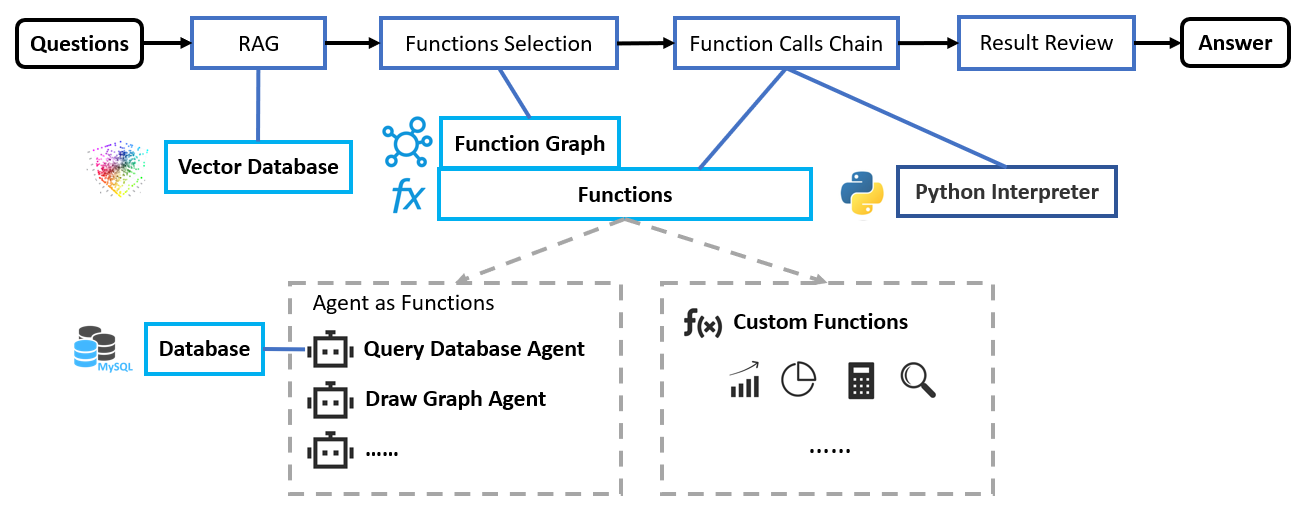
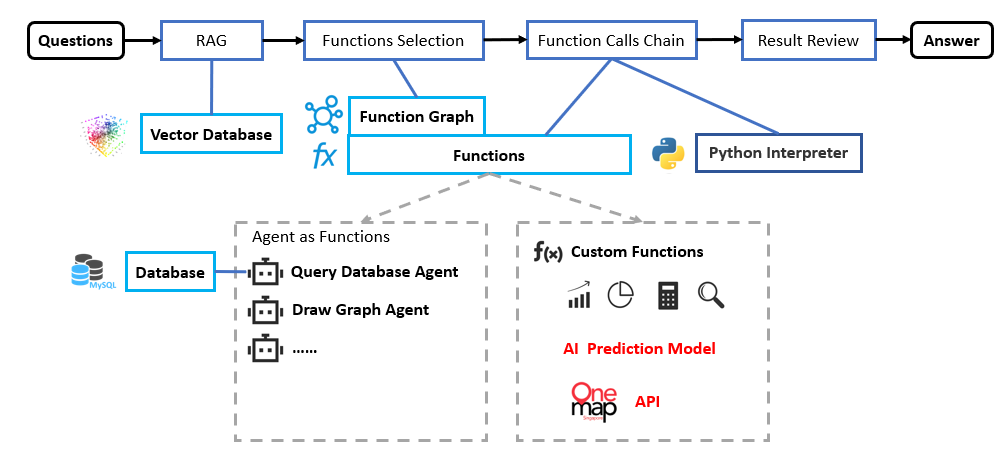
docs

Changed region(s): [[0.0, 0.031, 1.0, 0.9912], [0.741, 0.7743, 0.7719, 0.8982], [0.5558, 0.1858, 0.5867, 0.2168]]

diff --git a/README.md b/README.md
@@ -30,6 +30,22 @@
 - 2, 整合新加坡 OneMAP 的地图和数据 API。
 - 3, 支持基于机器学习的新加坡房价预测模型。
 
+## 需求分析
+
+### 问题/痛点  
+- **通用大语言模型缺乏领域特定数据**——无法支持垂直行业（房地产、教育、城市规划）的数据驱动决策。  
+- **数据碎片化且杂乱无章**——专业人士需手动整理信息，浪费大量时间。  
+- **幻觉与不可靠的输出**——现有智能体无法提供准确、结构化的分析。  
+- **缺乏统一平台**——企业和政府依赖昂贵的一次性解决方案。  
+- **示例**：现有大语言模型无法提供准确的近期二手房价格或交易量数据。  
+
+![](./readme_static/pro.png)
+
+### 目标受众与市场规模  
+- **购房者与公众**——获取结构化房产/教育洞察，用于长期家庭规划（如购房、择校）、日常生活与交通、实时决策。  
+- **房地产与教育行业专业人士**——基于AI的分析工具，为客户定制策略。  
+- **政府与城市规划者**——数据驱动的政策制定：城市规划、设施选址与调度、交通优化。
+
 ## 创新点
 - 基于代码生成的智能体(Agent)支持灵活的自定义函数调用(function call)和思维链(COT)
 - 引入函数依赖图(Function Graph)的概念，实现自定义函数调用
@@ -39,16 +55,44 @@
 
 ## 技术路线
 
-### AI agent 
+### 解决方案概述
 
-基本程序流水线图：
+- **融合大语言模型与结构化数据**：提升决策能力，提供精准洞察。  
+- **解决数据碎片化问题**：整合公共、行业及政府数据需求，打造统一平台。  
+- **简化复杂查询**：基于知识图谱（Knowledge Graph）与上下文压缩（Context Compression）技术，高效解析多维度问题。  
+- **优化用户交互**：通过提示词工程（Prompt Engineering）和思维链（Chain of Thought）技术，实现更自然的对话式分析。  
+- **自动化代码生成**：针对多样化用户场景，快速生成定制化解决方案代码，提升开发效率。
+
+![](./readme_static/struct.png)
+
+### 核心组件与技术架构  
+
+#### **1. 可配置的LLM主干模型**  
+- 支持主流大模型（如GPT-4o、Claude等），灵活适配不同场景需求。  
+
+#### **2. 动态工具调用的函数图谱（Function Graph）**  
+- 智能选择最佳工具链，根据任务类型动态组合数据查询、分析与可视化功能。  
+
+#### **3. 多智能体协作层**  
+- 通过角色化Agent分工（如数据查询Agent、校验Agent、报告生成Agent）实现复杂任务流水线处理。  
+
+#### **4. 深度垂直整合模块**  
+- **地理空间数据API**（如新加坡OneMap）  
+- **房价预测模型**（结合历史交易、区域发展等动态因子）
+
+（注：架构设计强调领域适应性，例如房地产场景可快速扩展"租金收益率计算"等专属模块）
+
+### AI agent
 
 ![](./readme_static/流程图1.png)
+
+基本程序流水线图：
 
 ![](./readme_static/流程图2.png)
 
 
 基本流程：
+User query → Function selection → Code generation → Execution → Validation
 1. **Question**: 用户自然语言问题提问
 2. **Function Selection**: LLM 根据函数基本信息选择多个函数，通过函数依赖图(Function Graph)获得可用函数列表和详细注释（函数包括非智能体函数(Custum Function)和调用其它智能体的函数(Agent as Function)，实现多智能体协同）
 3. **Function Calls Chain**: LLM 根据函数列表和详细注释，生成调用多个函数的 python 代码并执行
